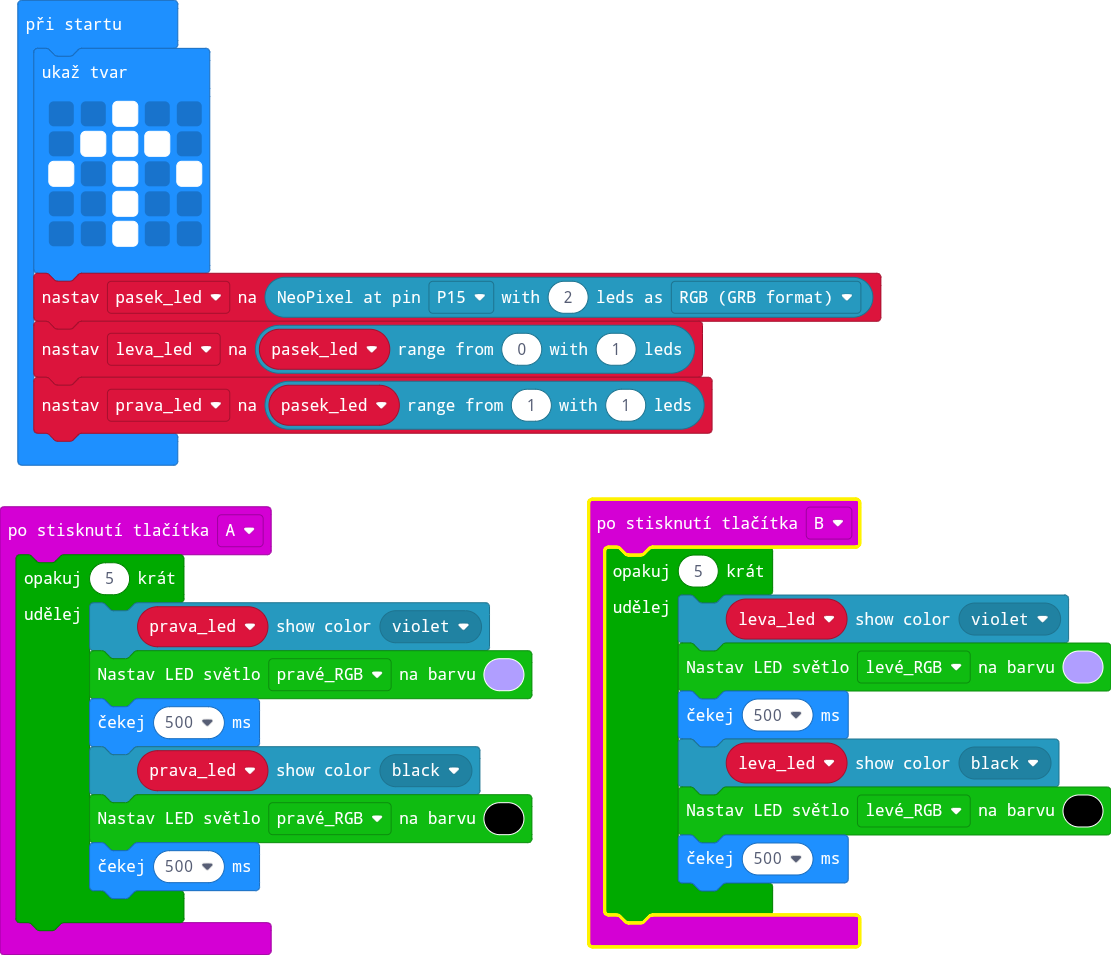
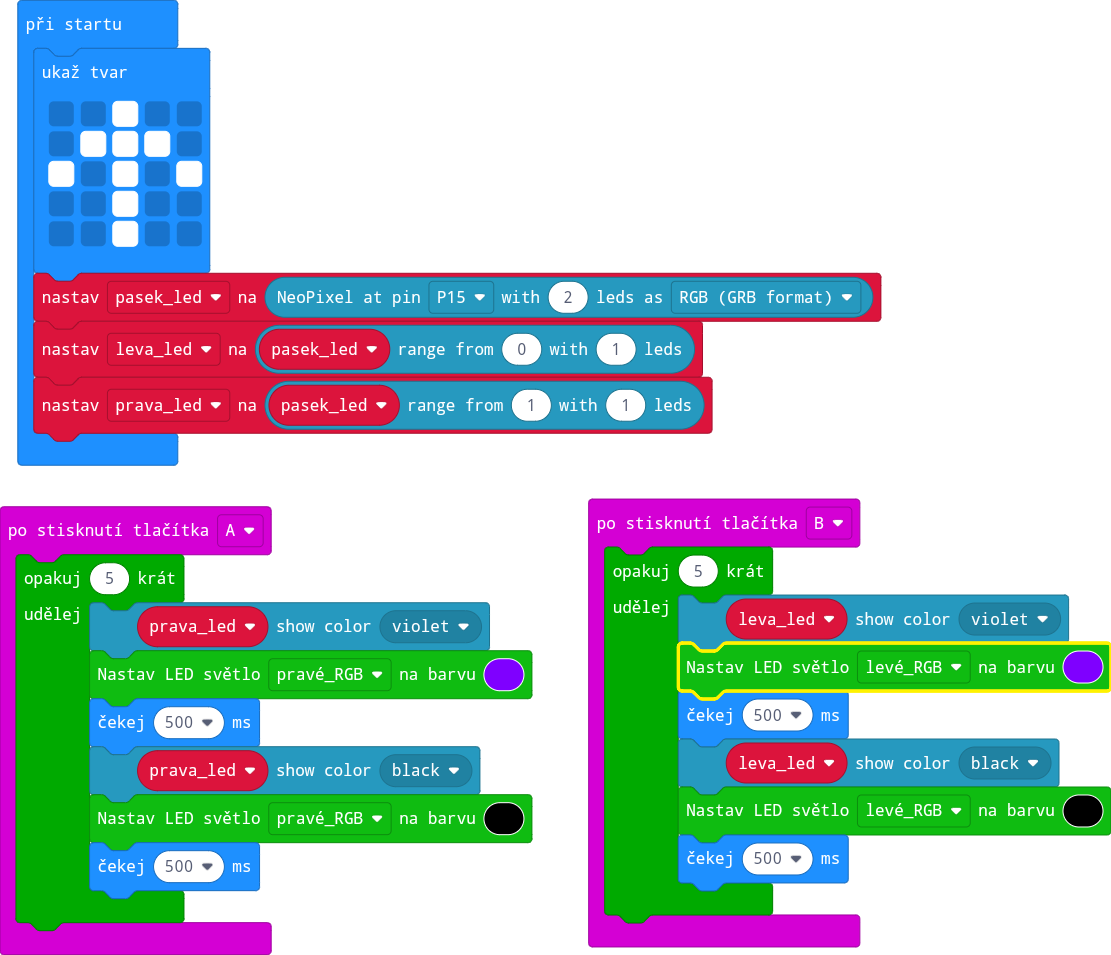
Aktualizovat pxt.json, main.blocks, main.ts

Changed region(s): [[0.5203, 0.5162, 0.7957, 1.0], [0.6121, 0.6681, 1.0, 0.7288], [0.4284, 0.6681, 0.4896, 0.7288]]

diff --git a/main.ts b/main.ts
@@ -1,7 +1,7 @@
 input.onButtonPressed(Button.A, function () {
     for (let index = 0; index < 5; index++) {
         prava_led.showColor(neopixel.colors(NeoPixelColors.Violet))
-        cuteBot.colorLight(cuteBot.RGBLights.RGB_L, 0xb09eff)
+        cuteBot.colorLight(cuteBot.RGBLights.RGB_L, 0x7f00ff)
         basic.pause(500)
         prava_led.showColor(neopixel.colors(NeoPixelColors.Black))
         cuteBot.colorLight(cuteBot.RGBLights.RGB_L, 0x000000)
@@ -11,7 +11,7 @@ input.onButtonPressed(Button.A, function () {
 input.onButtonPressed(Button.B, function () {
     for (let index = 0; index < 5; index++) {
         leva_led.showColor(neopixel.colors(NeoPixelColors.Violet))
-        cuteBot.colorLight(cuteBot.RGBLights.RGB_R, 0xb09eff)
+        cuteBot.colorLight(cuteBot.RGBLights.RGB_R, 0x7f00ff)
         basic.pause(500)
         leva_led.showColor(neopixel.colors(NeoPixelColors.Black))
         cuteBot.colorLight(cuteBot.RGBLights.RGB_R, 0x000000)
